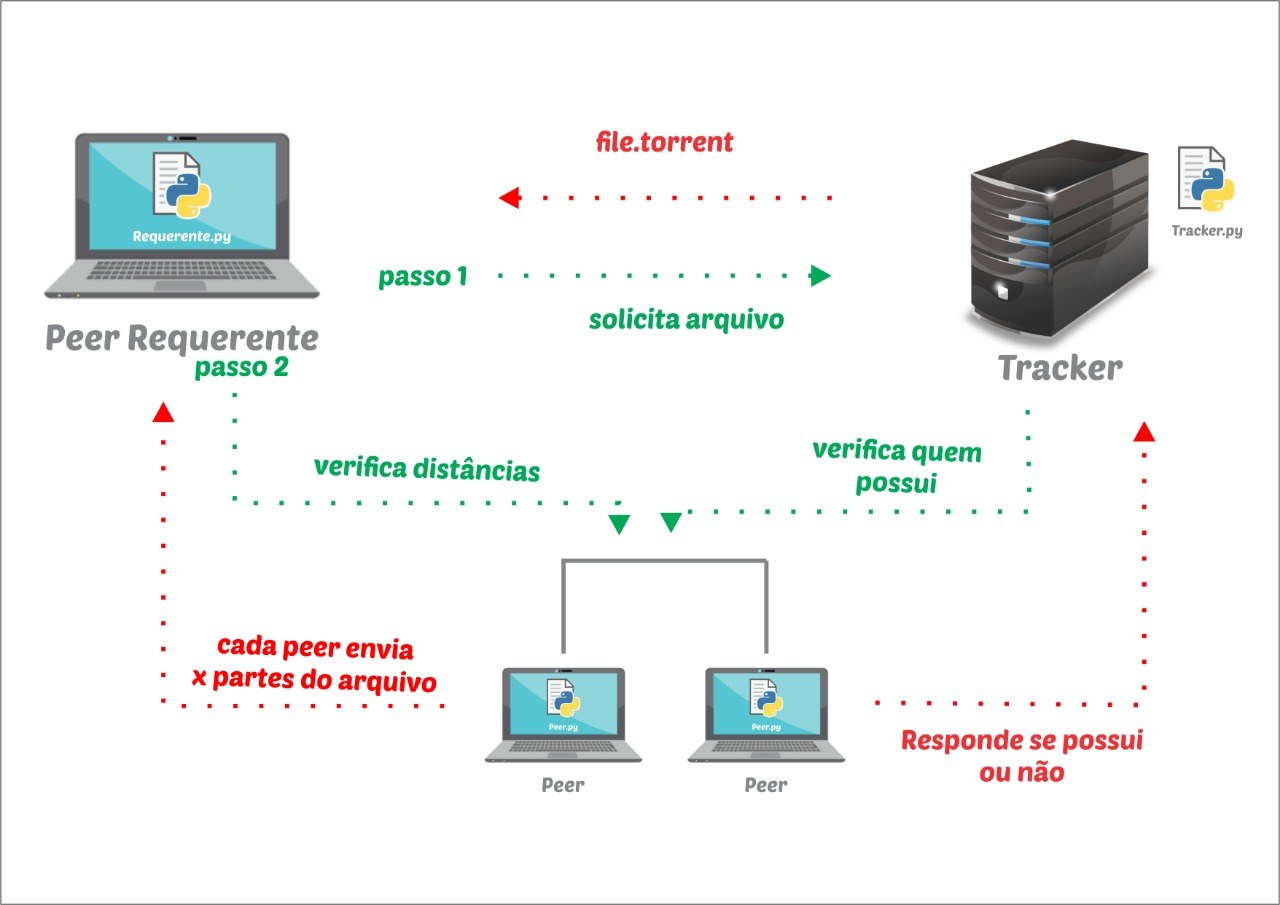
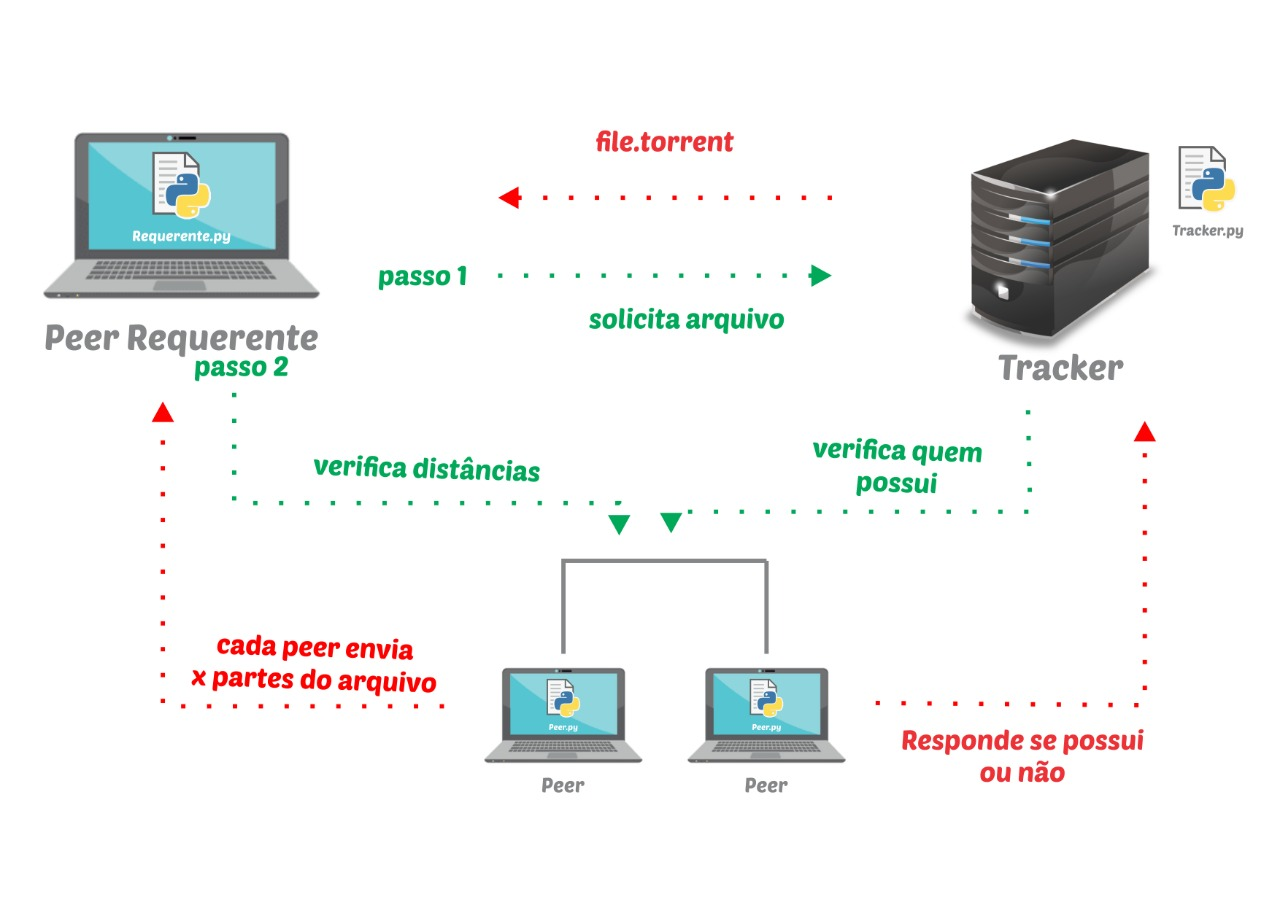
correção arquitetura

diff --git a/README.md b/README.md
@@ -86,9 +86,7 @@ As etapas do processo de download são:
 </p>
 
 # Arquitetura geral do Sistema P2P proposto
-<p align="center">
-  <img width="580" height="420" src="img/arquitetura.jpeg">
-</p>
+![academico](img/arquitetura.jpeg)
 
 
 ```LateX
